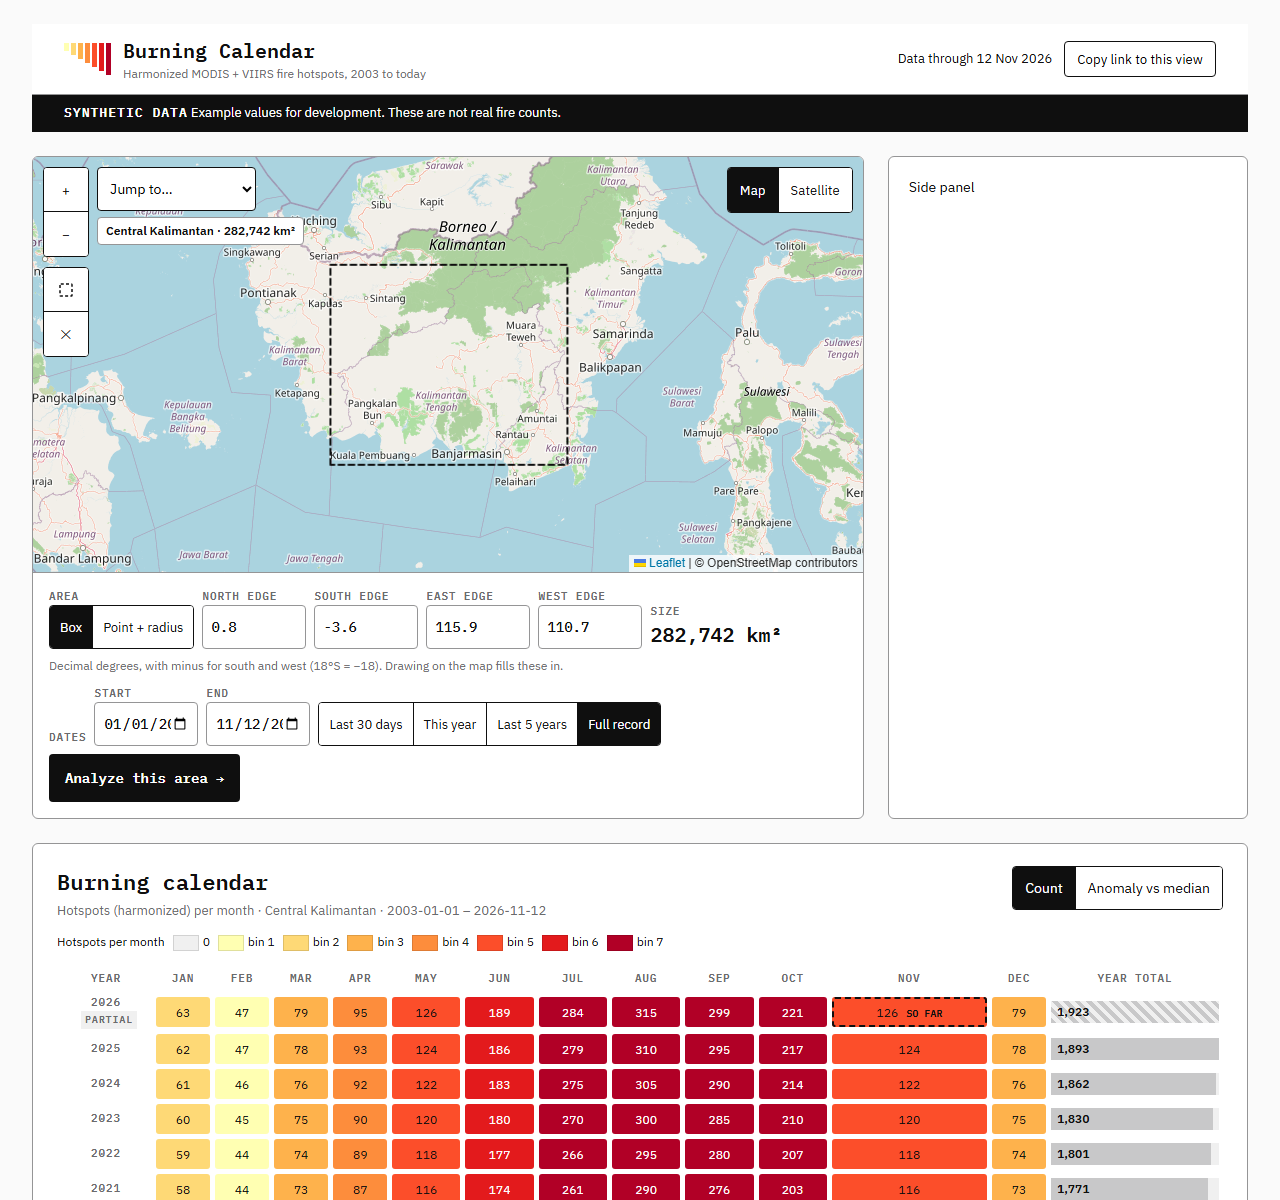
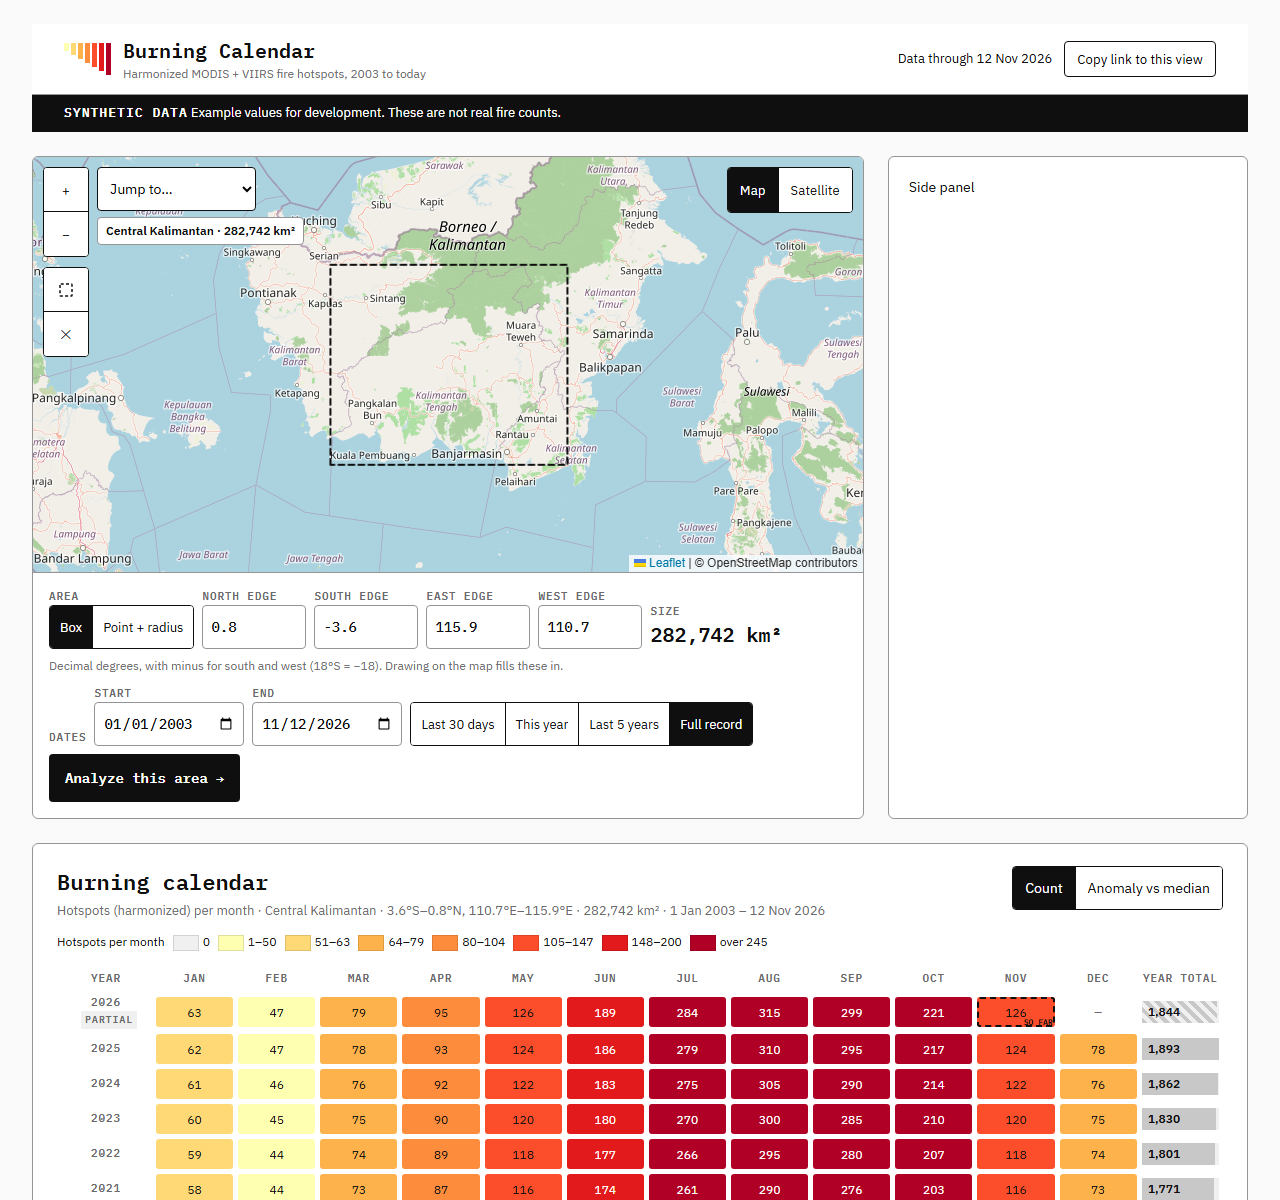
6d fixes: legend ranges, mask post-partial months, subtitle, equal columns, date input width

diff --git a/frontend/src/components/BurningCalendar/BurningCalendar.tsx b/frontend/src/components/BurningCalendar/BurningCalendar.tsx
@@ -1,8 +1,8 @@
 import { useMemo } from 'react';
 import { useAppState } from '../../state/useAppState';
 import { useCalendar, useCoverage, useSummary } from '../../api/hooks';
-import { COUNT_RAMP, ANOMALY_BINS, countColor, anomalyColor, textOn, quantileBins } from '../../lib/colors';
-import { formatNumber, formatSignedPct } from '../../lib/format';
+import { COUNT_RAMP, ANOMALY_BINS, countColor, anomalyColor, textOn, quantileBins, binLabels } from '../../lib/colors';
+import { formatNumber, formatSignedPct, formatDate, formatLat, formatLon } from '../../lib/format';
 import type { AppState } from '../../state/urlState';
 import styles from './BurningCalendar.module.css';
 
@@ -35,24 +35,43 @@ export default function BurningCalendar() {
   if (!data) return null;
 
   const view = state.view;
-  const rows = data.years.map((y, i) => ({ year: y, values: data.values[i], anomaly: data.anomaly[i], anomalyPct: data.anomaly_pct[i], total: data.annual_totals[i] })).reverse();
+  const rows = data.years.map((y, i) => {
+    let values = data.values[i];
+    let total = data.annual_totals[i];
+    if (data.partial && y === data.partial.year) {
+      values = values.map((v, mi) => (mi > data.partial!.month - 1 ? null : v));
+      total = values.reduce<number>((a, v) => a + (v ?? 0), 0);
+    }
+    return { year: y, values, anomaly: data.anomaly[i], anomalyPct: data.anomaly_pct[i], total };
+  }).reverse();
   const completeMax = Math.max(1, ...rows.filter((r) => !data.partial_years.includes(r.year)).map((r) => r.total));
   const medianTotal = (() => {
-    const baseline = data.annual_totals.filter((_, i) => data.baseline_years.includes(data.years[i]) && !data.partial_years.includes(data.years[i]));
+    const baseline = data.years.map((y, i) => ({ y, t: data.annual_totals[i] }))
+      .filter((x) => data.baseline_years.includes(x.y) && !data.partial_years.includes(x.y))
+      .map((x) => x.t);
     if (!baseline.length) return 0;
     const s = [...baseline].sort((a,b)=>a-b); const m = Math.floor(s.length/2);
     return s.length % 2 ? s[m] : (s[m-1]+s[m])/2;
   })();
 
-  const areaName = (() => {
+  const subtitle = (() => {
     const q = data.query;
+    let name = 'Selected area';
     if (q.bbox && coverage) {
       const sa = coverage.starter_areas.find((x) => x.bbox.every((v, i) => v === q.bbox![i]));
-      if (sa) return sa.label;
-      const reg = coverage.regions.find((r) => q.bbox![0] >= r.bbox[0] && q.bbox![2] <= r.bbox[2] && q.bbox![1] >= r.bbox[1] && q.bbox![3] <= r.bbox[3]);
-      return reg?.label ?? 'Selected area';
+      if (sa) name = sa.label;
+      else {
+        const reg = coverage.regions.find((r) => q.bbox![0] >= r.bbox[0] && q.bbox![2] <= r.bbox[2] && q.bbox![1] >= r.bbox[1] && q.bbox![3] <= r.bbox[3]);
+        name = reg?.label ?? 'Selected area';
+      }
     }
-    return 'Selected area';
+    if (q.bbox) {
+      const [w, s, e, n] = q.bbox;
+      const coords = `${formatLat(s)}–${formatLat(n)}, ${formatLon(w)}–${formatLon(e)}`;
+      const area = q.area_km2 != null ? `${formatNumber(q.area_km2)} km²` : '';
+      return `Hotspots (harmonized) per month · ${name} · ${coords} · ${area} · ${formatDate(q.start)} – ${formatDate(q.end)}`;
+    }
+    return `Hotspots (harmonized) per month · ${name} · ${formatDate(q.start)} – ${formatDate(q.end)}`;
   })();
 
   function pctMag(n: number) { return `${Math.abs(Math.round(n))}%`; }
@@ -98,7 +117,7 @@ export default function BurningCalendar() {
       <div className={styles.header}>
         <div>
           <h2 className={styles.title}>Burning calendar</h2>
-          <div className={styles.subtitle}>Hotspots (harmonized) per month · {areaName} · {data.query.start} – {data.query.end}</div>
+          <div className={styles.subtitle}>{subtitle}</div>
         </div>
         <div className={styles.viewToggle} role="group" aria-label="View">
           <button type="button" className={styles.viewBtn} aria-pressed={view === 'count'} onClick={() => dispatch({ type: 'patch', patch: { view: 'count' } })}>Count</button>
@@ -111,7 +130,7 @@ export default function BurningCalendar() {
           <>
             <span>Hotspots per month</span>
             <span><span className={styles.swatch} style={{ background: '#f0f0f0' }} />0</span>
-            {COUNT_RAMP.map((c, i) => <span key={c}><span className={styles.swatch} style={{ background: c }} />bin {i + 1}</span>)}
+            {COUNT_RAMP.map((c, i) => <span key={c}><span className={styles.swatch} style={{ background: c }} />{binLabels(bins)[i] ?? ''}</span>)}
           </>
         ) : (
           <>
@@ -157,7 +176,7 @@ export default function BurningCalendar() {
                         aria-label={cellLabel(row.year, mi, v, pct, isPartial)}
                         onClick={() => toggleFocus(row.year, mi)}
                       >
-                        {cellText(v, pct, isPartial)}{isPartial ? <span className={styles.soFar}> SO FAR</span> : null}
+                        {cellText(v, pct, isPartial)}{isPartial ? <span className={styles.soFar}>SO FAR</span> : null}
                       </button>
                     </td>
                   );

diff --git a/frontend/src/components/BurningCalendar/BurningCalendar.module.css b/frontend/src/components/BurningCalendar/BurningCalendar.module.css
@@ -10,16 +10,16 @@
 .swatch { width: 26px; height: 16px; border: 1px solid rgba(0,0,0,.12); display: inline-block; vertical-align: middle; margin-right: 4px; }
 .warning { margin-top: 12px; border: 1px solid var(--ink); border-radius: 4px; padding: 8px 12px; font-size: 13px; }
 .tableWrap { margin-top: 16px; overflow-x: auto; }
-.table { border-collapse: separate; border-spacing: 3px; min-width: 960px; width: 100%; }
+.table { border-collapse: separate; border-spacing: 3px; min-width: 960px; width: 100%; table-layout: fixed; }
 .table th { font-family: var(--font-mono); font-size: 11px; font-weight: 600; text-transform: uppercase; letter-spacing: 0.08em; color: var(--muted); text-align: center; }
 .yearHead { text-align: left; width: 92px; position: sticky; left: 0; background: var(--surface); }
 .yearCell { font-size: 13px; font-weight: 600; position: sticky; left: 0; background: var(--surface); }
 .partialTag { display: inline-block; margin-left: 6px; background: var(--fill); font-family: var(--font-mono); font-size: 10px; font-weight: 600; padding: 2px 4px; }
-.cellBtn { width: 100%; height: 30px; border: none; border-radius: 3px; font-size: 12px; font-variant-numeric: tabular-nums; cursor: pointer; position: relative; }
+.cellBtn { width: 100%; height: 30px; border: none; border-radius: 3px; font-size: 12px; font-variant-numeric: tabular-nums; cursor: pointer; position: relative; padding: 0 2px; }
 .cellEmpty { height: 30px; text-align: center; color: var(--muted); }
 .partialCell::after { content: ''; position: absolute; inset: 0; border: 2px dashed var(--ink); border-radius: 3px; pointer-events: none; }
 .focused { box-shadow: 0 0 0 3px var(--ink); }
-.soFar { font-family: var(--font-mono); font-size: 10px; font-weight: 600; margin-left: 2px; }
+.soFar { position: absolute; right: 2px; bottom: 1px; font-family: var(--font-mono); font-size: 8px; font-weight: 600; line-height: 1; }
 .totalCell { width: 170px; }
 .totalTrack { position: relative; height: 22px; background: var(--fill); }
 .totalBar { position: absolute; left: 0; top: 0; bottom: 0; background: #c8c8c9; }

diff --git a/frontend/src/lib/colors.ts b/frontend/src/lib/colors.ts
@@ -33,6 +33,24 @@ export function countColor(value: number, bins: number[]): string {
   return COUNT_RAMP[i] ?? COUNT_RAMP[COUNT_RAMP.length - 1];
 }
 
+export function binLabels(bins: number[]): string[] {
+  // bins are 7 quantile thresholds; produce 7 ranges for the 7 ramp colors
+  const b = bins.map((x) => Math.max(1, Math.round(x)));
+  const labels: string[] = [];
+  let lo = 1;
+  for (let i = 0; i < b.length; i++) {
+    const hi = b[i];
+    if (i === b.length - 1) {
+      labels.push(lo > hi ? `over ${hi.toLocaleString('en-US')}` : `over ${(Math.max(lo - 1, hi)).toLocaleString('en-US')}`);
+    } else {
+      const top = Math.max(lo, hi);
+      labels.push(lo === top ? `${lo.toLocaleString('en-US')}` : `${lo.toLocaleString('en-US')}–${top.toLocaleString('en-US')}`);
+      lo = top + 1;
+    }
+  }
+  return labels;
+}
+
 export const ANOMALY_BINS = [
   { max: -75, color: '#2166ac', label: 'below −75%' },
   { max: -40, color: '#67a9cf', label: '−75 to −40%' },

diff --git a/frontend/src/components/MapCard/MapCard.module.css b/frontend/src/components/MapCard/MapCard.module.css
@@ -20,6 +20,7 @@
 .row { display: flex; gap: var(--s2); flex-wrap: wrap; align-items: flex-end; }
 .label { display: flex; flex-direction: column; font-family: var(--font-mono); font-size: 11px; font-weight: 600; text-transform: uppercase; letter-spacing: 0.08em; color: var(--muted); }
 .input { width: 104px; height: 44px; padding: 0 var(--s2); border: 1px solid var(--line); border-radius: var(--r-control); font-family: inherit; font-size: 14px; color: var(--ink); background: var(--surface); }
+.input[type="date"] { width: 150px; }
 .size { font-family: var(--font-mono); }
 .sizeLabel { font-family: var(--font-mono); font-size: 11px; font-weight: 600; text-transform: uppercase; letter-spacing: 0.08em; color: var(--muted); }
 .sizeValue { font-size: 20px; font-weight: 600; }
